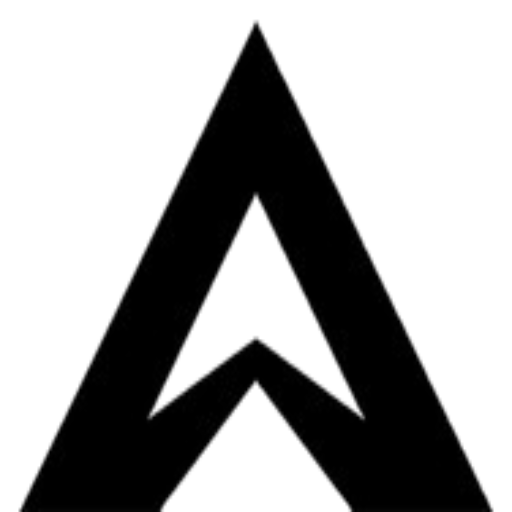
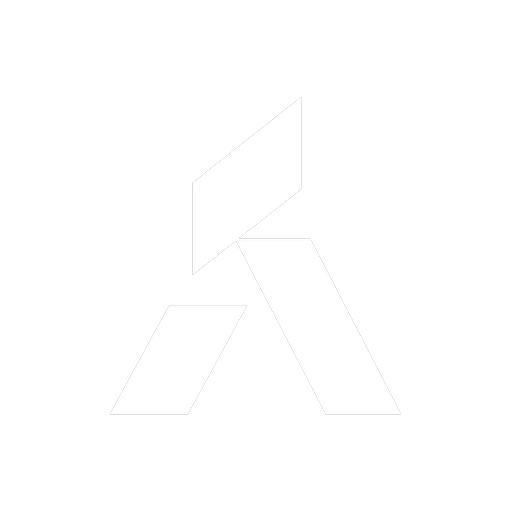
Swap the Archilas mark to the geometric three-parallelogram A.
Header and footer use the new SVG paths. Favicon, apple, and Chrome
icons are generated from the same geometry on a transparent ground.

diff --git a/src/components/BrandLogo.tsx b/src/components/BrandLogo.tsx
@@ -1,4 +1,3 @@
-import Image from "next/image";
 import Link from "next/link";
 import { site } from "@/lib/site";
 
@@ -7,6 +6,30 @@ type BrandLogoProps = {
   showName?: boolean;
   inverted?: boolean;
 };
+
+export function ArchilasMark({ className = "" }: { className?: string }) {
+  return (
+    <svg
+      viewBox="0 0 1633.867 1759.156"
+      className={className}
+      aria-hidden="true"
+      focusable="false"
+    >
+      <polygon
+        fill="currentColor"
+        points="516.777,531.830 1035.777,121.321 1035.777,563.214 516.777,973.722"
+      />
+      <polygon
+        fill="currentColor"
+        points="717.488,798.835 1078.816,798.835 1512.546,1637.835 1151.218,1637.835"
+      />
+      <polygon
+        fill="currentColor"
+        points="403.888,1118.835 777.477,1118.835 494.910,1637.835 121.321,1637.835"
+      />
+    </svg>
+  );
+}
 
 export function BrandLogo({
   className = "",
@@ -18,14 +41,7 @@ export function BrandLogo({
       href="/"
       className={`brand inline-flex items-center gap-2.5 text-[15px] ${inverted ? "text-text-dark" : "text-ink"} ${className}`}
     >
-      <Image
-        src="/archilas-logo.png"
-        alt=""
-        width={28}
-        height={22}
-        className={`h-7 w-auto ${inverted ? "brightness-0 invert" : ""}`}
-        priority
-      />
+      <ArchilasMark className="brand-mark" />
       {showName ? <span>{site.name}</span> : <span className="sr-only">{site.name}</span>}
     </Link>
   );

diff --git a/src/app/layout.tsx b/src/app/layout.tsx
@@ -42,6 +42,8 @@ export const metadata: Metadata = {
   authors: [{ name: site.name }],
   icons: {
     icon: [
+      { url: "/archilas-mark.svg", type: "image/svg+xml", media: "(prefers-color-scheme: dark)" },
+      { url: "/archilas-mark-black.svg", type: "image/svg+xml", media: "(prefers-color-scheme: light)" },
       { url: "/favicon.ico" },
       { url: "/favicon-16x16.png", sizes: "16x16", type: "image/png" },
       { url: "/favicon-32x32.png", sizes: "32x32", type: "image/png" },

diff --git a/src/app/globals.css b/src/app/globals.css
@@ -106,8 +106,13 @@ body {
   letter-spacing: -0.03em;
 }
 
-.brand img {
-  filter: brightness(0) invert(1);
+.brand-mark {
+  display: block;
+  height: 28px;
+  width: auto;
+  flex: none;
+  aspect-ratio: 1633.867 / 1759.156;
+  color: currentColor;
 }
 
 .nav-link {
